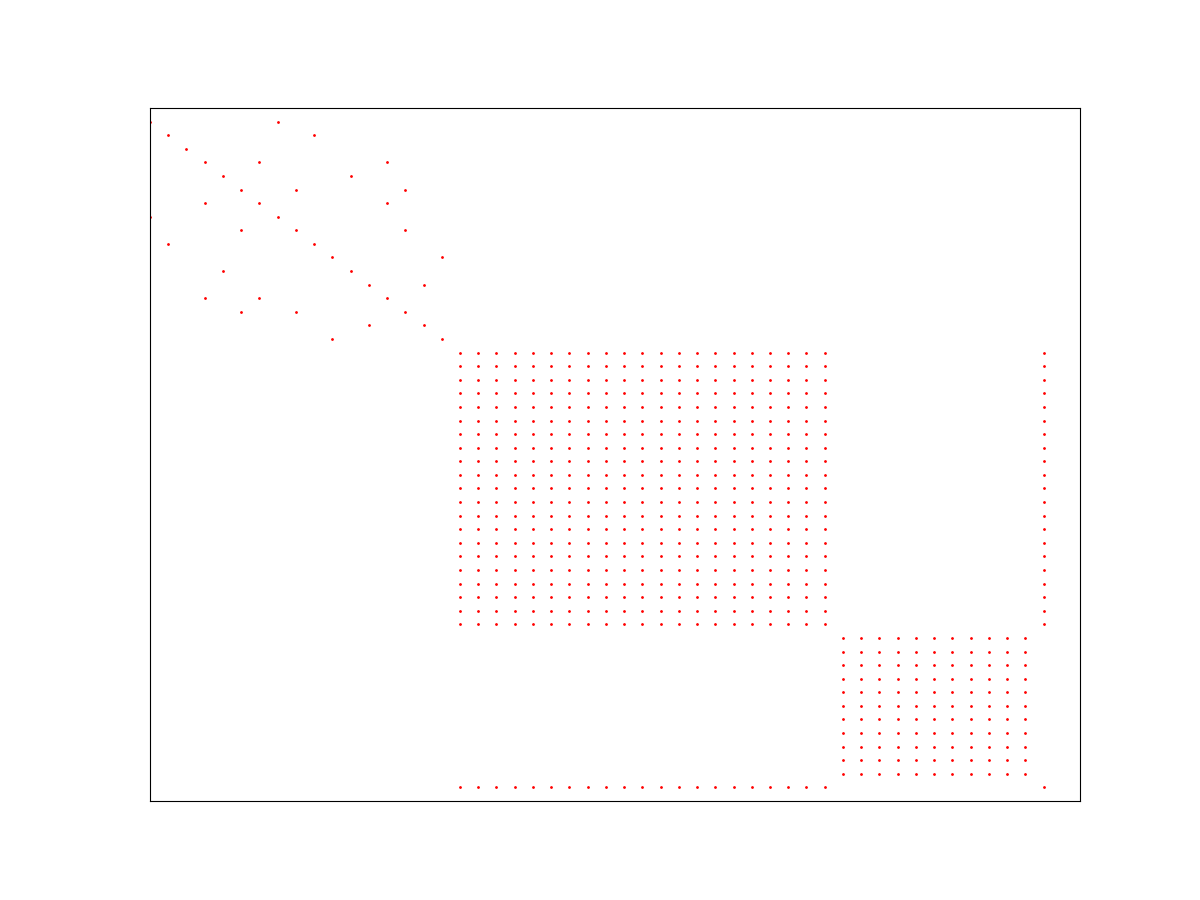
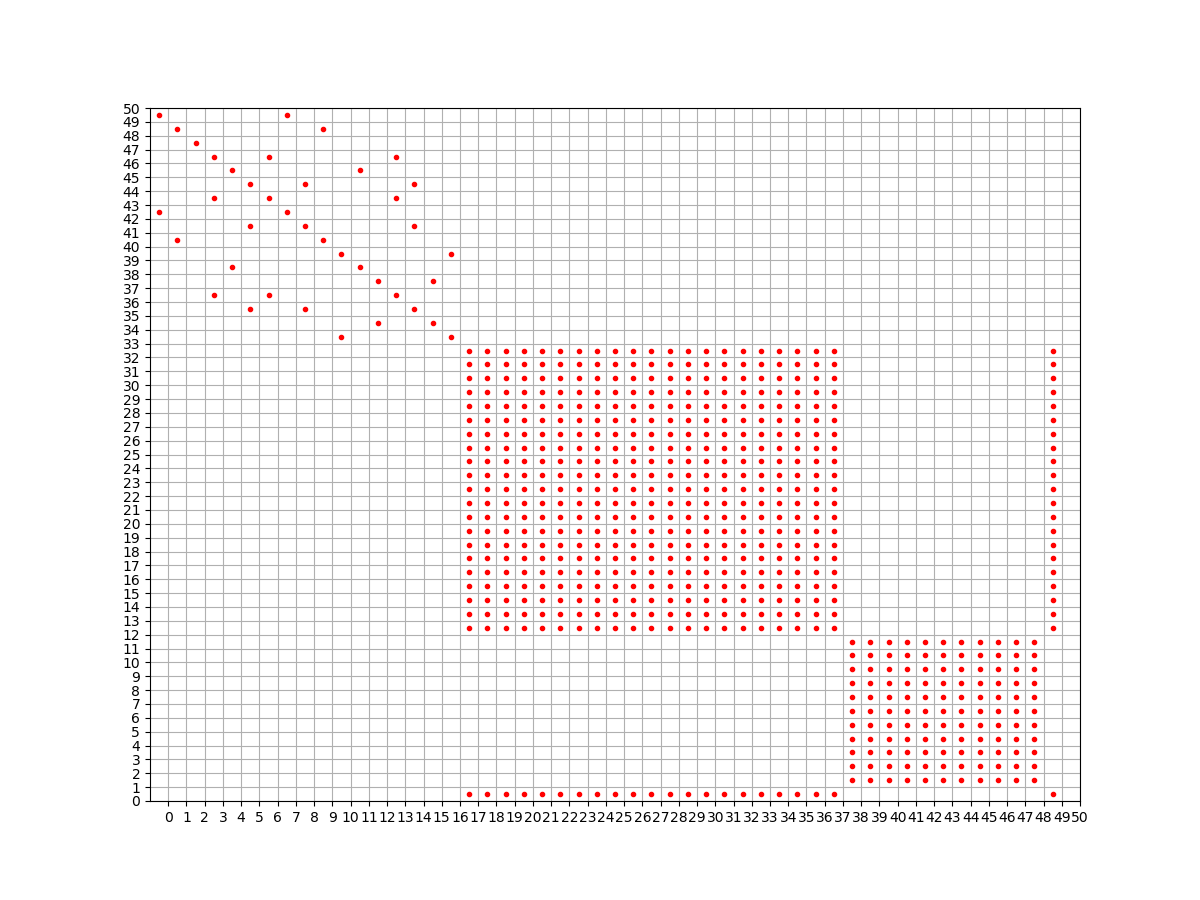
grid added

Changed region(s): [[0.0925, 0.1244, 0.8942, 0.9333]]

diff --git a/dot_plot/views.py b/dot_plot/views.py
@@ -141,8 +141,8 @@ def makeplot_recurrence(sequence, sequence2, recurrence_table,f_sequence):
     for y in range(sequence2):
         for x in range(sequence):
             if recurrence_table[y][x] == 1:
-                x_rqa.append(x)
-                y_rqa.append(sequence2-y)
+                x_rqa.append(x-0.5)
+                y_rqa.append((sequence2-y)-0.5)
 
     multi_plot = plt.figure(figsize=(12, 9))
     multi_plot.clear()
@@ -154,19 +154,18 @@ def makeplot_recurrence(sequence, sequence2, recurrence_table,f_sequence):
     if sequence > 100 or sequence2 > 100:
         size = 0.5
     else:
-        size = 1
-    plt.plot(x_rqa, y_rqa, 'ro', markersize=size)
-    plt.xlim(0, sequence+1)
-    plt.ylim(0, sequence2+1)
+        size = 3
+    plot = plt.plot(x_rqa, y_rqa, 'ro', markersize=size)
+    plt.xlim(-1, sequence)
+    plt.ylim(0, sequence2 )
     plt.xticks(range(0,sequence+1))
     plt.yticks(range(0,sequence2+1))
-    # plt.grid()
+    plt.grid()
     # ax3 = plt.subplot2grid((8, 8), (2, 6), rowspan=6, colspan=2)
     # ax3.plot(count_x, list(range(len(count_x))))
     # plt.xlim(0, max(count_x) + 1)
     # plt.ylim(0,len(count_x)-1)
-    plt.yticks([])
-    plt.xticks([])
-
+    # plt.yticks([])
+    # plt.xticks([])
     multi_plot.canvas.draw()
     multi_plot.savefig('static/RQA.png')
